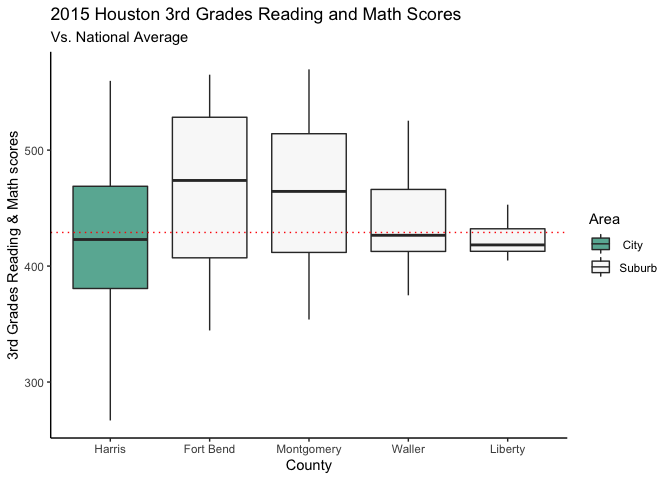
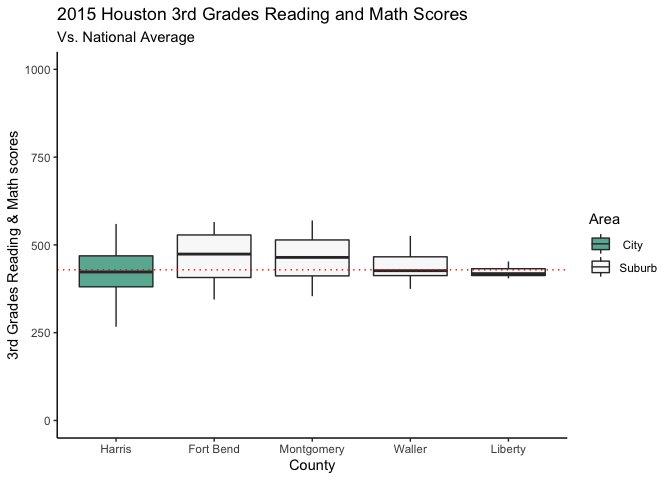
standardized Houston axis scales

diff --git a/2. Graph Creation/Houston/Texas-Final-Graphics.md b/2. Graph Creation/Houston/Texas-Final-Graphics.md
@@ -336,7 +336,7 @@ ggplot(income_tx, aes(x = reorder(county_code, deviation), y = deviation,
   )+
   theme_bw()+
   theme(axis.text.y = element_text(colour = i.color)) +
-  scale_y_continuous(labels = function(x){paste0("$", x/1000, "K")}) 
+  scale_y_continuous(labels = function(x){paste0("$", x/1000, "K")}, limits=c(-25000,30000)) 
 ```
 
     ## Warning: Vectorized input to `element_text()` is not officially supported.
@@ -360,7 +360,8 @@ df_tx_2015 %>%
   labs(title = "2015 Houston 3rd Grades Reading and Math Scores", 
        subtitle = "Vs. National Average", 
        x = "County", 
-       y = "3rd Grades Reading & Math scores")
+       y = "3rd Grades Reading & Math scores") +
+  scale_y_continuous(limits=c(0,1000))
 ```
 
 ![](Texas-Final-Graphics_files/figure-gfm/unnamed-chunk-9-1.png)<!-- -->
